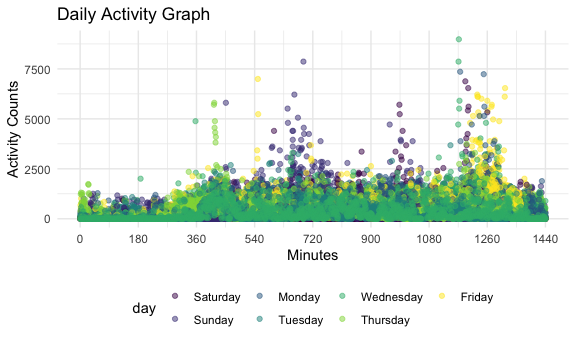
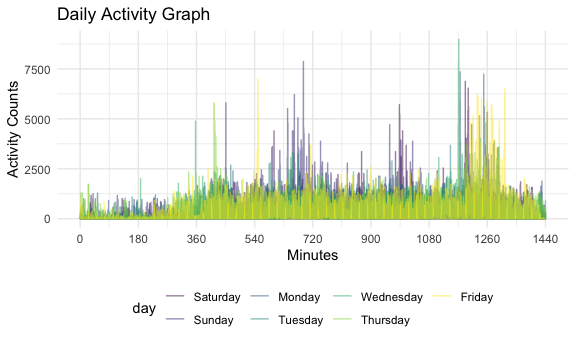
edit activity graph to line plot

diff --git a/p8105_hw3_jl2361.md b/p8105_hw3_jl2361.md
@@ -1,7 +1,7 @@
 P8105 HW3
 ================
 Jennifer Lee (UNI: jl2361)
-2022-10-13
+2022-10-14
 
 # Problem 1
 
@@ -211,7 +211,7 @@ the course of a single day.
 accel_df %>%
   ggplot(
     aes(x = min, y = activity_counts, color = day)) +
-      geom_point(alpha = .5) +
+      geom_line(alpha = .5) +
   labs(title = "Daily Activity Graph",
        x = "Minutes",
        y = "Activity Counts") +
